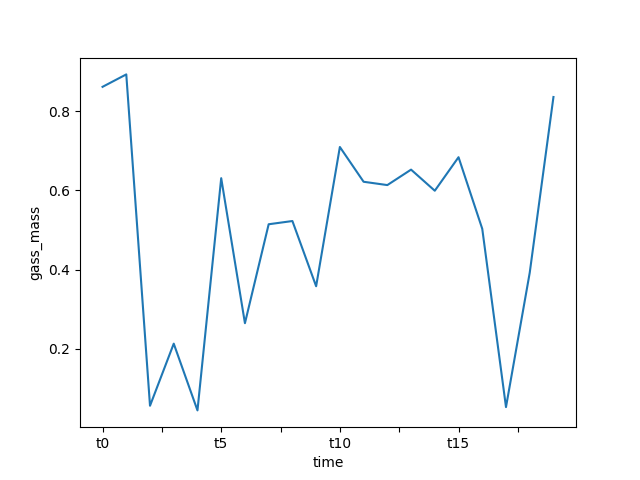
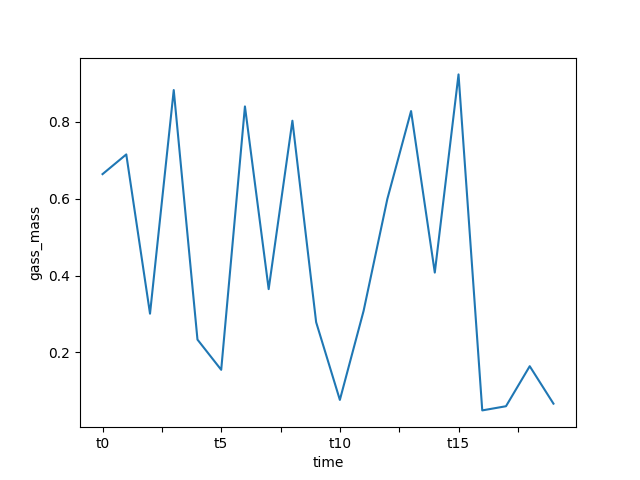
update: fluent and document main

diff --git a/lib/step_4_write_docments.py b/lib/step_4_write_docments.py
@@ -15,47 +15,53 @@ promts = _load_yaml(os.path.abspath(os.path.join(parents_path, 'config/promts.ya
 config = _load_yaml(os.path.abspath(os.path.join(parents_path, 'config/config.yaml')))
 promts.update({"DateFormate": config["DateFormate"]})
 
-work_condition_params = {'壁面参数': None, "入口参数": None, "出口参数": None, "加速度参数": None, "液位参数": None,
-                         "时间参数": None}
-order_params = {'名称参数': None, "编号参数": None}
-
-# -----------------------这下面逻辑有一些混乱，一定是有一些是一件事------------------------------------
-
-data = np.random.random((5,20))
-gas_liquid_data = np.random.random((4,20)) # 液体质量/体积-时间，气体质量/体积-时间
-# xz 平面的温度/压力时间图
-averge_press_on_xz_clip = pd.DataFrame(data, index=[f'clip{i+1}' for i in range(data.shape[0])],columns=[f't{i}' for i in range(data.shape[1])])
-averge_temp_on_xz_clip = pd.DataFrame(data, index=[f'clip{i+1}' for i in range(data.shape[0])],columns=[f't{i}' for i in range(data.shape[1])])
-# yz 平面的温度/压力时间图
-averge_press_on_yz_clip = pd.DataFrame(data, index=[f'clip{i+1}' for i in range(data.shape[0])],columns=[f't{i}' for i in range(data.shape[1])])
-averge_temp_on_yz_clip = pd.DataFrame(data, index=[f'clip{i+1}' for i in range(data.shape[0])],columns=[f't{i}' for i in range(data.shape[1])])
-gas_liquid_time = pd.DataFrame(data=gas_liquid_data,index=['liquid_vol','liquid_mass','gas_vol','gas_mass'],columns=[f't{i}' for i in range(gas_liquid_data.shape[1])])
-
-# =======================》由前面的参数计算得到 todo
-df = pd.DataFrame({'截面平均升压速率Pa/s': [1, 2, 3, 5]}, index=[f'截面1', '截面2', '截面3', '截面4'])
-sus_t = pd.DataFrame({'维持时间t': [1, 2, 3, 5], '初始时刻截面平均压力Pa': [1, 2, 3, 5]},
-                     index=[f'截面1', '截面2', '截面3', '截面4'])
-
-# 液体体积/质量 -时间图
-
-press_up = [0.1, 0.3, 0.5, 0.6]
-temp_diff = [0.1, 0.3, 0.5, 0.6]
-average_press = [0.1, 0.3, 0.5, 0.6]
-sus_time = 20  # 维持时间
-run_time_cost = 99
 
 
-def write_docments(run_dir: str):
+def write_docments(run_dir: str,work_condition_params,pressure_up_rate,sus_t):
     # 创建一个新的Word文档对象
+    sus_time = sus_t['维持时间t'].mean()
     document = Document()
     num = write_title(promts['title'], document)
     num = write_ref(document, num, parents_path)
     num = write_post_frame(document, num, work_condition_params, order_params, parents_path, run_dir)
-    num = write_results(document, num, df, sus_t, run_time_cost)
+    num = write_results(document, num, pressure_up_rate, sus_t, run_time_cost)
     write_summary(document, run_dir, num, promts, press_up, temp_diff, average_press, sus_time, run_time_cost)
 
     document.save(os.path.abspath(os.path.join(parents_path, f'run/{run_dir}/output_file/{run_dir}.docx')))
 
 
 if __name__ == '__main__':
-    write_docments('20240201_215030')
+    work_condition_params = {'壁面参数': None, "入口参数": None, "出口参数": None, "加速度参数": None, "液位参数": None,"时间参数": None}
+    order_params = {'名称参数': None, "编号参数": None}
+    #
+    # # -----------------------这下面逻辑有一些混乱，一定是有一些是一件事------------------------------------
+    #
+    # data = np.random.random((5, 20))
+    # gas_liquid_data = np.random.random((4, 20))  # 液体质量/体积-时间，气体质量/体积-时间
+    # # xz 平面的温度/压力时间图
+    # averge_press_on_xz_clip = pd.DataFrame(data, index=[f'clip{i + 1}' for i in range(data.shape[0])],
+    #                                        columns=[f't{i}' for i in range(data.shape[1])])
+    # averge_temp_on_xz_clip = pd.DataFrame(data, index=[f'clip{i + 1}' for i in range(data.shape[0])],
+    #                                       columns=[f't{i}' for i in range(data.shape[1])])
+    # # yz 平面的温度/压力时间图
+    # averge_press_on_yz_clip = pd.DataFrame(data, index=[f'clip{i + 1}' for i in range(data.shape[0])],
+    #                                        columns=[f't{i}' for i in range(data.shape[1])])
+    # averge_temp_on_yz_clip = pd.DataFrame(data, index=[f'clip{i + 1}' for i in range(data.shape[0])],
+    #                                       columns=[f't{i}' for i in range(data.shape[1])])
+    # gas_liquid_time = pd.DataFrame(data=gas_liquid_data, index=['liquid_vol', 'liquid_mass', 'gas_vol', 'gas_mass'],
+    #                                columns=[f't{i}' for i in range(gas_liquid_data.shape[1])])
+    #
+    # # =======================》由前面的参数计算得到 todo
+    pressure_up_rate = pd.DataFrame({'截面平均升压速率Pa/s': [1, 2, 3, 5]}, index=[f'截面1', '截面2', '截面3', '截面4'])
+    sus_t = pd.DataFrame({'维持时间t': [1, 2, 3, 5], '初始时刻截面平均压力Pa': [1, 2, 3, 5]},
+                         index=[f'截面1', '截面2', '截面3', '截面4'])
+    #
+    # # 液体体积/质量 -时间图
+    #
+    # press_up = [0.1, 0.3, 0.5, 0.6]
+    # temp_diff = [0.1, 0.3, 0.5, 0.6]
+    # average_press = [0.1, 0.3, 0.5, 0.6]
+    # sus_time = 20  # 维持时间
+    run_time_cost = 99
+
+    write_docments('20240201_215030',work_condition_params,pressure_up_rate,sus_t,run_time_cost)

diff --git a/lib/step_1_run_fluent.py b/lib/step_1_run_fluent.py
@@ -1,20 +1,48 @@
-from mod import parents_path
-from lib import config
-from mod.fluntapi.fluentapi import initial_fluent, read_mesh_or_case, define_boundary_and_models,initial_and_calculate,define_data_query_and_post
-
+import pandas as pd
+import numpy as np
 import time
 
-run_dir = '20240201_215030'
-# 读取参数配置文件的数据
-t1 = time.perf_counter()
-data_all = []
-solver = initial_fluent(config)
+from mod import parents_path
+from lib import config
+from mod.fluntapi.fluentapi import initial_fluent, read_mesh_or_case, define_boundary_and_models, initial_and_calculate, \
+    define_data_query_and_post
 
-import_filename = "../run/20240201_215030/fluent_data/chao54-DUIBI.msh"
-coordinate_content = read_mesh_or_case(import_filename, solver)
-walls = define_boundary_and_models(config, solver)
-initial_and_calculate(config, solver,coordinate_content)
-define_data_query_and_post(config, solver,coordinate_content,walls,parents_path,run_dir)
+def fluent_out_file_to_pandas(path):
+    xz_clip_pressure_data = []
+    with open(path, 'r') as f:
+        res = f.readlines()
+        for item in res:
+            if item[0].isdigit():
+                xz_clip_pressure_data.append(item.strip().split(" "))
+    xz_clip_pressure_data = np.array(xz_clip_pressure_data).astype(np.float32)[:, 1:].transpose()
+    averge_press_on_xz_clip = pd.DataFrame(xz_clip_pressure_data,
+                                           index=[f'clip{i + 1}' for i in range(xz_clip_pressure_data.shape[0])],
+                                           columns=[f't{i}' for i in range(xz_clip_pressure_data.shape[1])])  # 平均压力on y
+    return averge_press_on_xz_clip
+
+
+def run_fluent_get_picture_and_data(run_dir, import_filename):
+    t1 = time.perf_counter()
+    solver = initial_fluent(config)
+    coordinate_content = read_mesh_or_case(import_filename, solver)
+    walls = define_boundary_and_models(config, solver)
+    initial_and_calculate(config, solver, coordinate_content)
+    define_data_query_and_post(config, solver, coordinate_content, walls, parents_path, run_dir)
+    t2 = time.perf_counter()
+    print("用时", t2 - t1, "s")
+
+
+def fluent_data_to_pandas():
+    averge_press_on_xz_clip = fluent_out_file_to_pandas('yclip_file_pre.out')  # 平均温度 on y
+    averge_temp_on_xz_clip = fluent_out_file_to_pandas('yclip_file_temp.out')  # 平均温度 on y
+    averge_press_on_yz_clip = fluent_out_file_to_pandas('xclip_file_pre.out')  # 平均压力 on x
+    averge_temp_on_yz_clip = fluent_out_file_to_pandas('xclip_file_temp.out')  # 平均温度 on x
+
+    return averge_press_on_xz_clip, averge_temp_on_xz_clip, averge_press_on_yz_clip, averge_temp_on_yz_clip
+
+
+# 读取参数配置文件的数据
+
 # solver.tui.solve.report_definitions.add('bbb','lift','thread-names', 'wing_up','wing_down','()','force-vector','0.2', '0.6')
 # solver.file.read(file_type="case", file_name=import_filename)
 
@@ -26,6 +54,10 @@ define_data_query_and_post(config, solver,coordinate_content,walls,parents_path,
 # solver.tui.solve.monitors.residual.print("yes")
 
 # solver.solution.run_calculation.iterate(iter_count=5)
-t2 = time.perf_counter()
 
-print("用时", t2 - t1, "s")
+
+if __name__ == '__main__':
+    run_dir = '20240201_215030'
+    mesh = "../run/20240201_215030/fluent_data/chao54-DUIBI.msh"
+    run_fluent_get_picture_and_data(run_dir, mesh)
+    averge_press_on_xz_clip, averge_temp_on_xz_clip, averge_press_on_yz_clip, averge_temp_on_yz_clip = fluent_data_to_pandas()

diff --git a/mod/fluntapi/fluentapi.py b/mod/fluntapi/fluentapi.py
@@ -123,21 +123,33 @@ def initial_and_calculate(config, solver,coordinate_content):
         # solver.solution.report_definitions.surface[f'xclip{num}'] = {"field": "pressure",
         #                                                                     "surface_names": [f"xclip{num}"]}
 
-        solver.tui.solve.report_definitions.add(f"xclip{num}", "surface-areaavg", "field", "pressure",
+        solver.tui.solve.report_definitions.add(f"xclip{num}_pre", "surface-areaavg", "field", "pressure",
+                                                "surface-names", [f"xclip{num}"], "q")
+        solver.tui.solve.report_definitions.add(f"xclip{num}_temp", "surface-areaavg", "field", "temperature",
                                                 "surface-names", [f"xclip{num}"], "q")
         # # 定义这个切面的文件
-    solver.solution.monitor.report_files[f'xclip_file'] = {"report_defs": [f'xclip{i}' for i in range(len(space_x))]}
-    solver.solution.monitor.report_files[f'xclip_file'].file_name = "xclip_file.out"
+    solver.solution.monitor.report_files[f'xclip_file_pre'] = {"report_defs": [f'xclip{i}_pre' for i in range(len(space_x))]}
+    solver.solution.monitor.report_files[f'xclip_file_pre'].file_name = "xclip_file_pre.out"
+
+    solver.solution.monitor.report_files[f'xclip_file_temp'] = {"report_defs": [f'xclip{i}_temp' for i in range(len(space_x))]}
+    solver.solution.monitor.report_files[f'xclip_file_temp'].file_name = "xclip_file_temp.out"
+
     # 统计xz平面
     space_y = (coordinate_content['max_y'] - coordinate_content['min_y']) / num_of_plane
     space_y = np.linspace(coordinate_content['min_y'] + space_y, coordinate_content['max_y'] - space_y,
                           num_of_plane).tolist()
     for num, item in enumerate(space_y):
         solver.tui.surface.iso_surface("y-coordinate", f"yclip{num}", (), "fluid-1", (), f"{item}", (), 'q')
-        solver.tui.solve.report_definitions.add(f"yclip{num}", "surface-areaavg", "field", "pressure",
+        solver.tui.solve.report_definitions.add(f"yclip{num}_pre", "surface-areaavg", "field", "pressure",
                                                 "surface-names", [f"yclip{num}"], "q")
-    solver.solution.monitor.report_files[f'yclip_file'] = {"report_defs": [f'yclip{i}' for i in range(len(space_y))]}
-    solver.solution.monitor.report_files[f'yclip_file'].file_name="yclip_file.out"
+        solver.tui.solve.report_definitions.add(f"yclip{num}_temp", "surface-areaavg", "field", "temperature",
+                                                "surface-names", [f"yclip{num}"], "q")
+
+    solver.solution.monitor.report_files[f'yclip_file_pre'] = {"report_defs": [f'yclip{i}_pre' for i in range(len(space_y))]}
+    solver.solution.monitor.report_files[f'yclip_file_pre'].file_name="yclip_file_pre.out"
+
+    solver.solution.monitor.report_files[f'yclip_file_temp'] = {"report_defs": [f'yclip{i}_temp' for i in range(len(space_y))]}
+    solver.solution.monitor.report_files[f'yclip_file_temp'].file_name = "yclip_file_temp.out"
     # solver.tui.file
     solver.solution.run_calculation.calculate()
 

diff --git a/bin/main.py b/bin/main.py
@@ -1,0 +1,31 @@
+import datetime
+import pandas as pd
+import numpy as np
+from lib import promts, config
+from lib.step_0_check_file_system import make_dirs
+from lib.step_1_run_fluent import run_fluent_get_picture_and_data, fluent_data_to_pandas
+from lib.step_3_draw_picture import draw_picture_by_fluent_data
+
+
+def main(date,run_dir,mesh,gas_liquid_time):
+    make_dirs(date=date)
+    run_fluent_get_picture_and_data(run_dir, mesh)
+    averge_press_on_xz_clip, averge_temp_on_xz_clip, averge_press_on_yz_clip, averge_temp_on_yz_clip = fluent_data_to_pandas()
+    draw_picture_by_fluent_data(averge_press_on_xz_clip,
+                                averge_temp_on_xz_clip,
+                                averge_press_on_yz_clip,
+                                averge_temp_on_yz_clip,
+                                gas_liquid_time,
+                                run_dir)
+    pass
+
+
+if __name__ == '__main__':
+    date = datetime.datetime(year=2024, month=2, day=12, hour=12, minute=10, second=20)
+    run_dir = '20240201_215030'
+    mesh = "../run/20240201_215030/fluent_data/chao54-DUIBI.msh"
+    # 液体体积/质量 -时间图
+    gas_liquid_data = np.random.random((4, 20))  # 液体质量/体积-时间，气体质量/体积-时间
+    gas_liquid_time = pd.DataFrame(data=gas_liquid_data, index=['liquid_vol', 'liquid_mass', 'gas_vol', 'gas_mass'],
+                                   columns=[f't{i}' for i in range(gas_liquid_data.shape[1])])
+    main(date,run_dir=run_dir,mesh=mesh,gas_liquid_time=gas_liquid_time)
